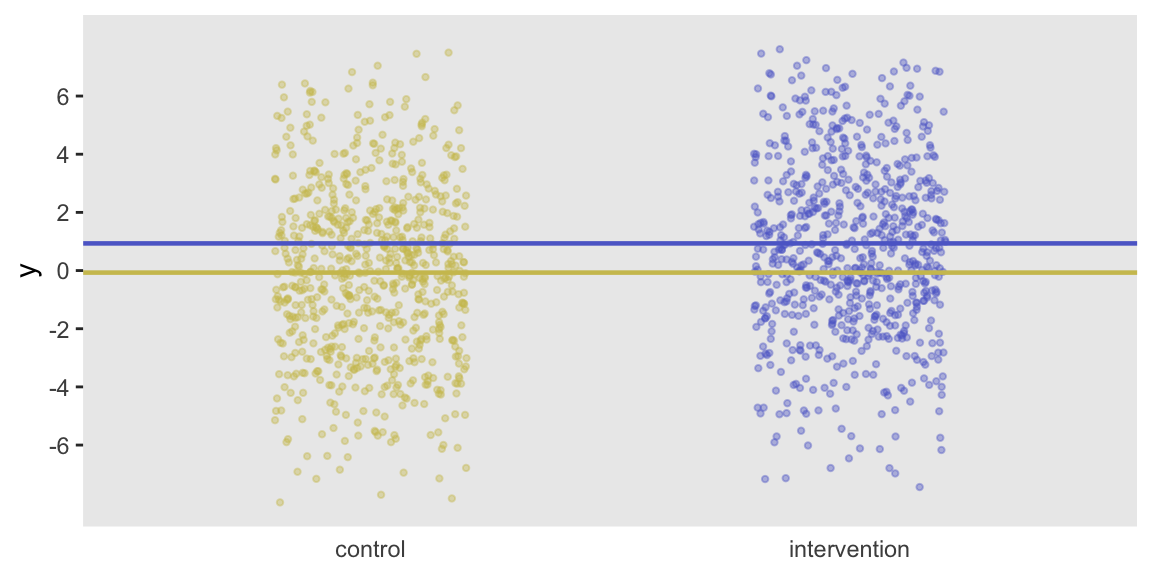
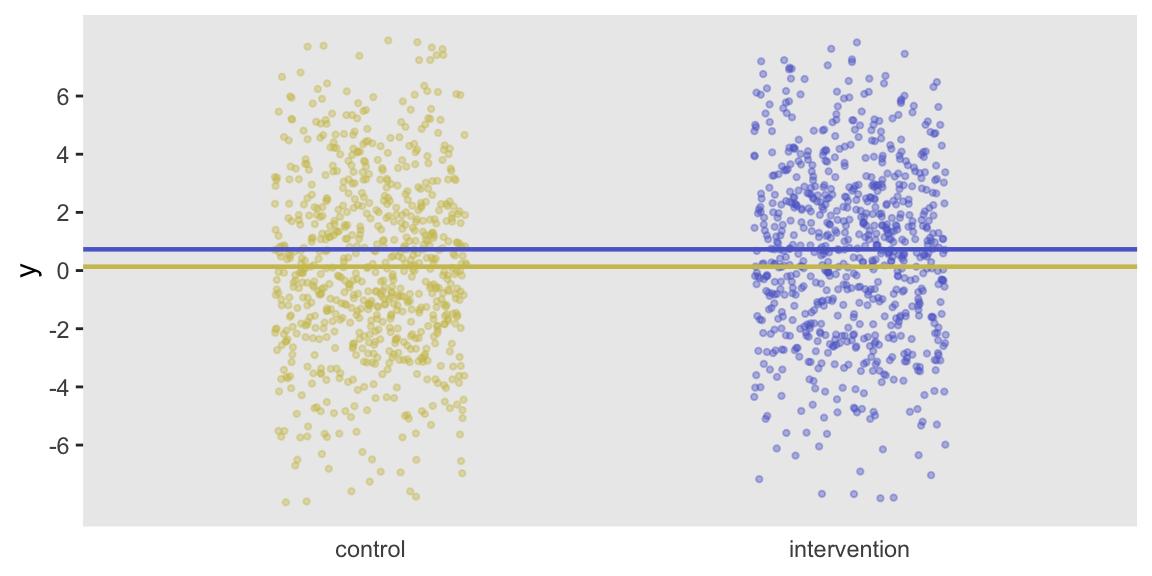
Fixing design effect post

diff --git a/content/post/2020-02-18-what-exactly-is-the-design-effect.en.html b/content/post/2020-02-18-what-exactly-is-the-design-effect.en.html
@@ -9,6 +9,7 @@ tags:
 subtitle: ''
 ---
 
+<script src="/rmarkdown-libs/header-attrs/header-attrs.js"></script>
 
 
 <p>I am always saying that simulation can help illuminate interesting statistical concepts or ideas. The <em>design effect</em> that underlies much of clustered analysis is could benefit from a little exploration through simulation. I’ve written about clustered-related methods so much on this blog that I won’t provide links - just peruse the list of entries on the home page and you are sure to spot a few. But, I haven’t written explicitly about the design effect.</p>
@@ -53,9 +54,9 @@ set.seed(987)</code></pre>
 dx &lt;- independentData(N = 30 * 50, defI1)</code></pre>
 <p>The observed effect size and variance should be close to the specified parameters of 0.8 and 10, respectively:</p>
 <pre class="r"><code>dx[rx == 1, mean(y)] - dx[rx == 0, mean(y)]</code></pre>
-<pre><code>## [1] 1</code></pre>
+<pre><code>## [1] 0.597</code></pre>
 <pre class="r"><code>dx[, var(y)]</code></pre>
-<pre><code>## [1] 10.3</code></pre>
+<pre><code>## [1] 10.2</code></pre>
 <p>Here is a plot of the individual observations that highlights the group differences and individual variation:</p>
 <p><img src="/post/2020-02-18-what-exactly-is-the-design-effect.en_files/figure-html/unnamed-chunk-6-1.png" width="576" /></p>
 </div>
@@ -80,9 +81,9 @@ defI2 &lt;- defDataAdd(varname = &quot;y&quot;, formula = &quot;ceff + 0.8 * rx&
 <pre class="r"><code>dx &lt;- clusteredData(k = 30, m = 50, defC, defI2)</code></pre>
 <p>The effect size and variation across all observations should be be quite similar to the previous design, though now the data has a structure that is determined by the clusters:</p>
 <pre class="r"><code>dx[rx == 1, mean(y)] - dx[rx == 0, mean(y)]</code></pre>
-<pre><code>## [1] 1.4</code></pre>
+<pre><code>## [1] 0.203</code></pre>
 <pre class="r"><code>dx[, var(y)]</code></pre>
-<pre><code>## [1] 11</code></pre>
+<pre><code>## [1] 10.5</code></pre>
 <p><img src="/post/2020-02-18-what-exactly-is-the-design-effect.en_files/figure-html/unnamed-chunk-11-1.png" width="672" /></p>
 </div>
 <div id="randomization-within-site" class="section level4">
@@ -102,7 +103,7 @@ defI2 &lt;- defDataAdd(varname = &quot;y&quot;, formula = &quot;ceff + 0.8 * rx&
 <pre class="r"><code>dx &lt;- withinData(30, 50, defC, defI2)
 
 dx[rx == 1, mean(y)] - dx[rx == 0, mean(y)]</code></pre>
-<pre><code>## [1] 0.787</code></pre>
+<pre><code>## [1] 0.813</code></pre>
 <pre class="r"><code>dx[, var(y)]</code></pre>
 <pre><code>## [1] 10.1</code></pre>
 <p><img src="/post/2020-02-18-what-exactly-is-the-design-effect.en_files/figure-html/unnamed-chunk-14-1.png" width="672" /></p>
@@ -167,7 +168,7 @@ resCest &lt;- unlist(mclapply(1:niters,
           function(x) genEstFromClust(k=50, m = 18, defC, defI2)))
 
 mean(resCest &lt; 0.05) # power</code></pre>
-<pre><code>## [1] 0.805</code></pre>
+<pre><code>## [1] 0.778</code></pre>
 <p>In just over 80% of the cases, we would have rejected the null.</p>
 <p>And here is the estimated power under the individual randomization experiment, but with a twist. Since the design effect is 1.85, the cluster randomized experiment needs a relative sample size 1.85 times higher than an equivalent (individual-level) RCT to provide the same information, or to have equivalent power. So, in our simulations, we will use a reduced sample size for the individual RCT. Since we used 900 individuals in the CRT, we need only <span class="math inline">\(900/1.85 = 487\)</span> individuals in the RCT:</p>
 <pre class="r"><code>( N.adj &lt;- ceiling( 50 * 18 / d_bc_form ) )</code></pre>
@@ -181,7 +182,7 @@ resIest &lt;- unlist(mclapply(1:niters,
           function(x) genEstFromInd(N = N.adj, defI1)))</code></pre>
 <p>The power for this second experiment is also quite close to 80%:</p>
 <pre class="r"><code>mean(resIest &lt; 0.05) # power</code></pre>
-<pre><code>## [1] 0.796</code></pre>
+<pre><code>## [1] 0.794</code></pre>
 </div>
 <div id="within-cluster-randomization" class="section level3">
 <h3>Within cluster randomization</h3>
@@ -215,13 +216,14 @@ resWest &lt;- unlist(mclapply(1:niters,
   function(x) genEstFromWithin(k = 50, m = ceiling(m.adj), defC, defI2)))
 
 mean(resWest &lt; 0.05)</code></pre>
-<pre><code>## [1] 0.786</code></pre>
+<pre><code>## [1] 0.779</code></pre>
 <p>
 <p><small><font color="darkkhaki">
 References:</p>
 <p>Donner, Allan, and Neil Klar. “Design and analysis of cluster randomization trials in health research.” New York (2010).</p>
 <p>Vierron, Emilie, and Bruno Giraudeau. “Design effect in multicenter studies: gain or loss of power?.” BMC medical research methodology 9, no. 1 (2009): 39.</p>
-This work was supported in part by the National Institute on Aging (NIA) of the National Institutes of Health under Award Number U54AG063546, which funds the NIA Imbedded Pragmatic Alzheimer’s Disease and AD-Related Dementias Clinical Trials Collaboratory (<a href="https://impactcollaboratory.org/">NIA IMPACT Collaboratory</a>). The author, a member of the Design and Statistics Core, was the sole writer of this blog post and has no conflicts. The content is solely the responsibility of the author and does not necessarily represent the official views of the National Institutes of Health.
+<p>Support:</p>
+This work was supported in part by the National Institute on Aging (NIA) of the National Institutes of Health under Award Number U54AG063546, which funds the NIA IMbedded Pragmatic Alzheimer’s Disease and AD-Related Dementias Clinical Trials Collaboratory (<a href="https://impactcollaboratory.org/">NIA IMPACT Collaboratory</a>). The author, a member of the Design and Statistics Core, was the sole writer of this blog post and has no conflicts. The content is solely the responsibility of the author and does not necessarily represent the official views of the National Institutes of Health.
 </font></small>
 </p>
 </div>
